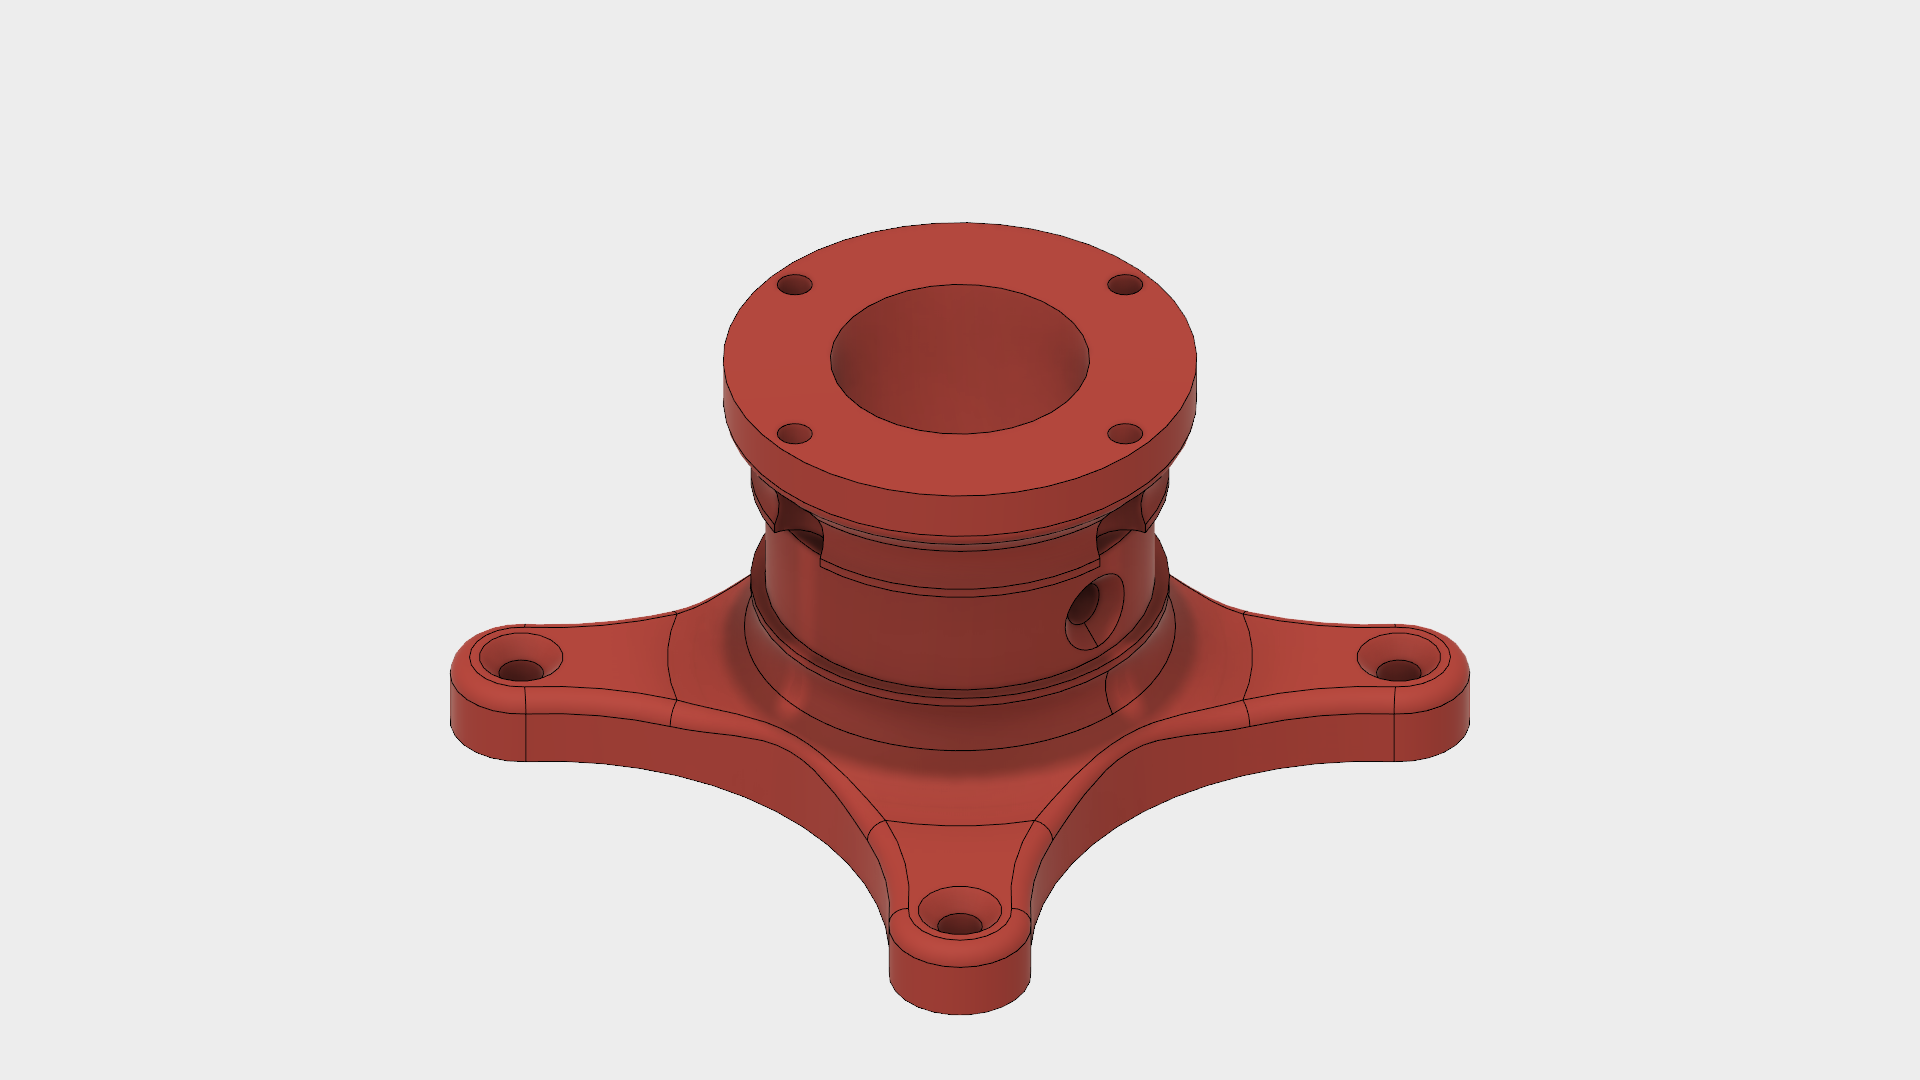
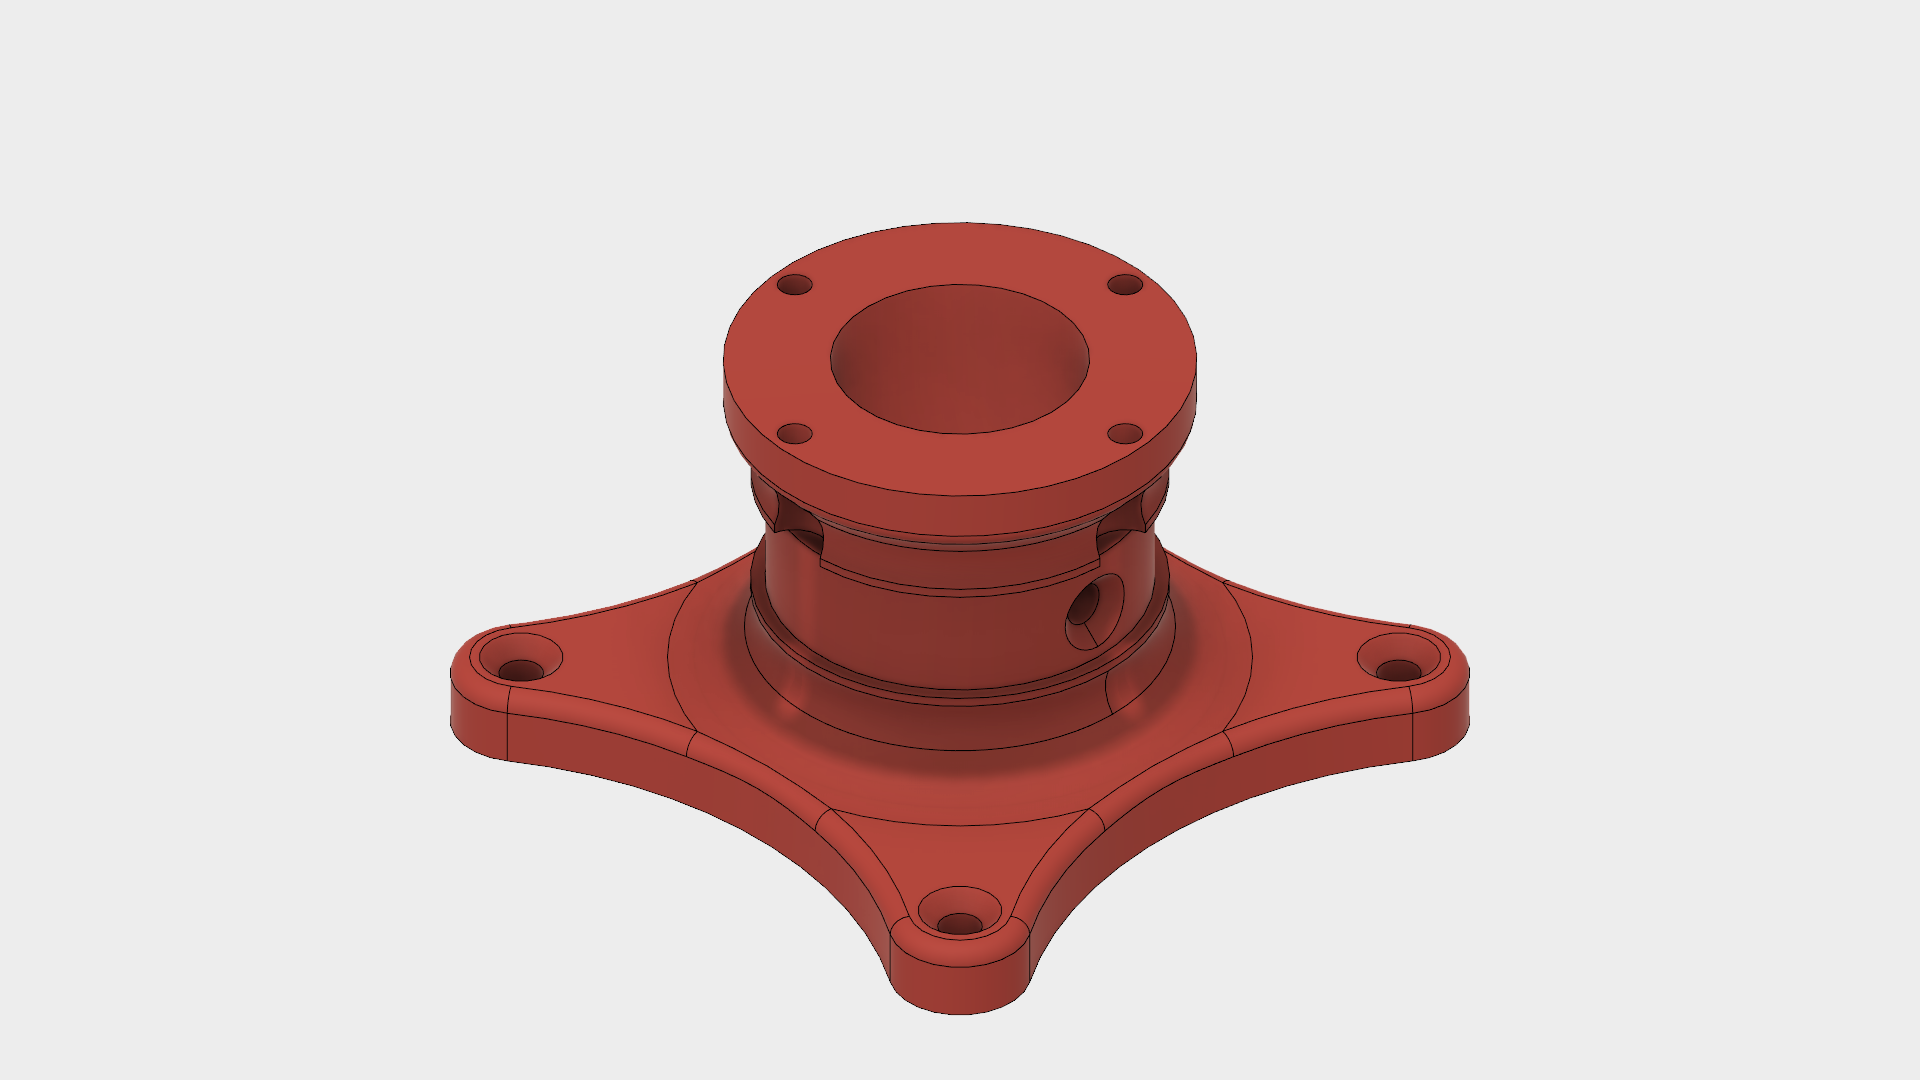
Added motor clamp CAD file, updated CAD README

diff --git a/CAD/README.md b/CAD/README.md
@@ -1,7 +1,8 @@
 ## Arduino stack standoffs
-- Long standoffs (green) go between motor shield and audio shield
-- Short standoffs (yellow) go between audio shield and Arduino
-- Red washers go at very top of bolt
+- Intended to guarantee uniform and reliable spacing between shields, reducing potential of shorts or disconnections due to tilting during use.
+- Long standoffs (green) go between motor shield and audio shield.
+- Short standoffs (yellow) go between audio shield and Arduino.
+- Red washers go at very top of bolt.
 
 ![Arduino stack standoffs](../docs/parts/Arduino-stack-standoffs.png)
 
@@ -14,6 +15,7 @@
 ## Compound pulley flange
 - One side (side with four arms) mounts to back of painting or piece to spin.
 - Other side fits a 14t bicycle gear with particular hole pattern using M3 bolts.
+   - Hole pattern is rotated to make it easier for a screwdriver to reach bolt heads for tightening / racheting.
 - Includes a 1/2" wide recessed ridge meant to guide rotation of entire component along PVC inset on "Axle support bracket"
 - A 1" wooden dowel goes through center hole, optionally fastened with small wood screw within recessed ridge. Make sure the head of the screw stays below diameter of this ridge to avoid interfering with rotation.
 
@@ -31,6 +33,12 @@
 - Uses M3 bolts (with lock nuts under adapter) to connect adapter to Universal Mounting Hub.
 
 ![Large pulley (26t) to Universal Mounting Hub adapter](../docs/parts/large-pulley-26t-to-universal-mounting-hub-adapter.png)
+
+## Motor clamp
+- Snuggly fits around gearmotor to help hold it in place. Use two wood screws to get desired level of tension.
+- I recommend only using one directly over the gearbox, NOT the motor, to allow for better heat dissipation.
+
+![Motor clamp](../docs/parts/motor-clamp.png)
 
 ## Small pulley (14t) flange
 - Center hole fits 1" wood dowel.
